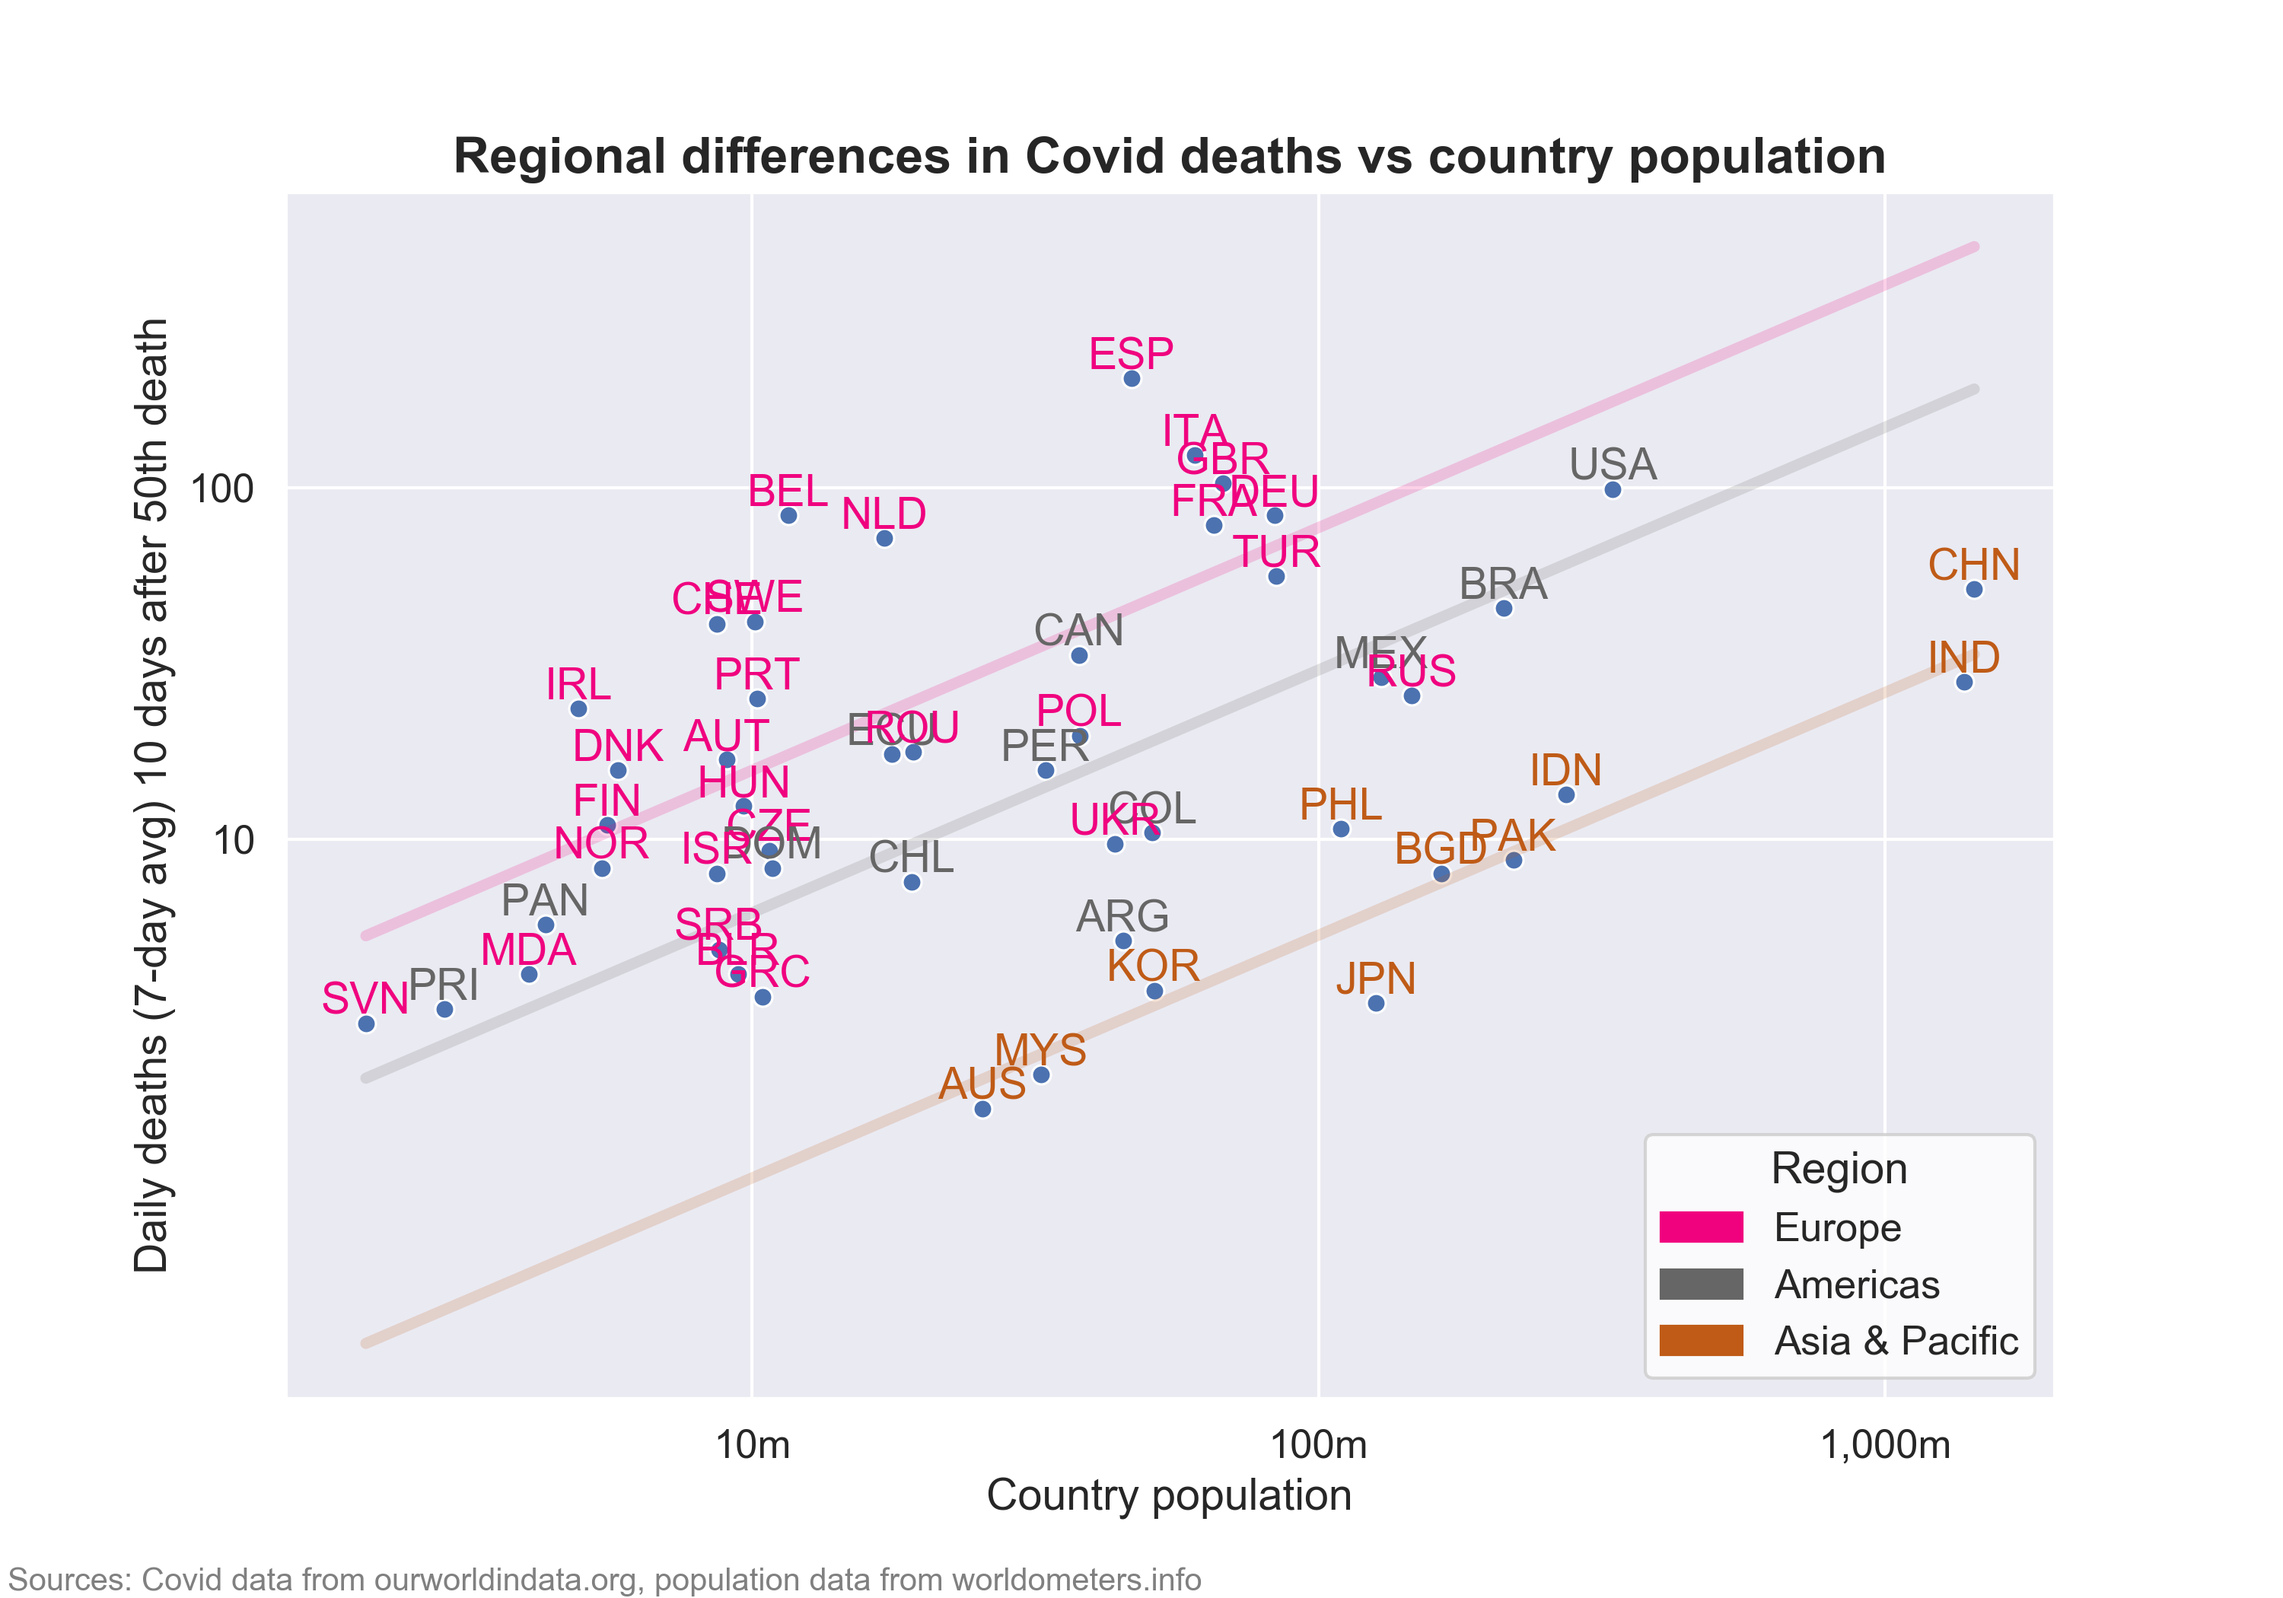
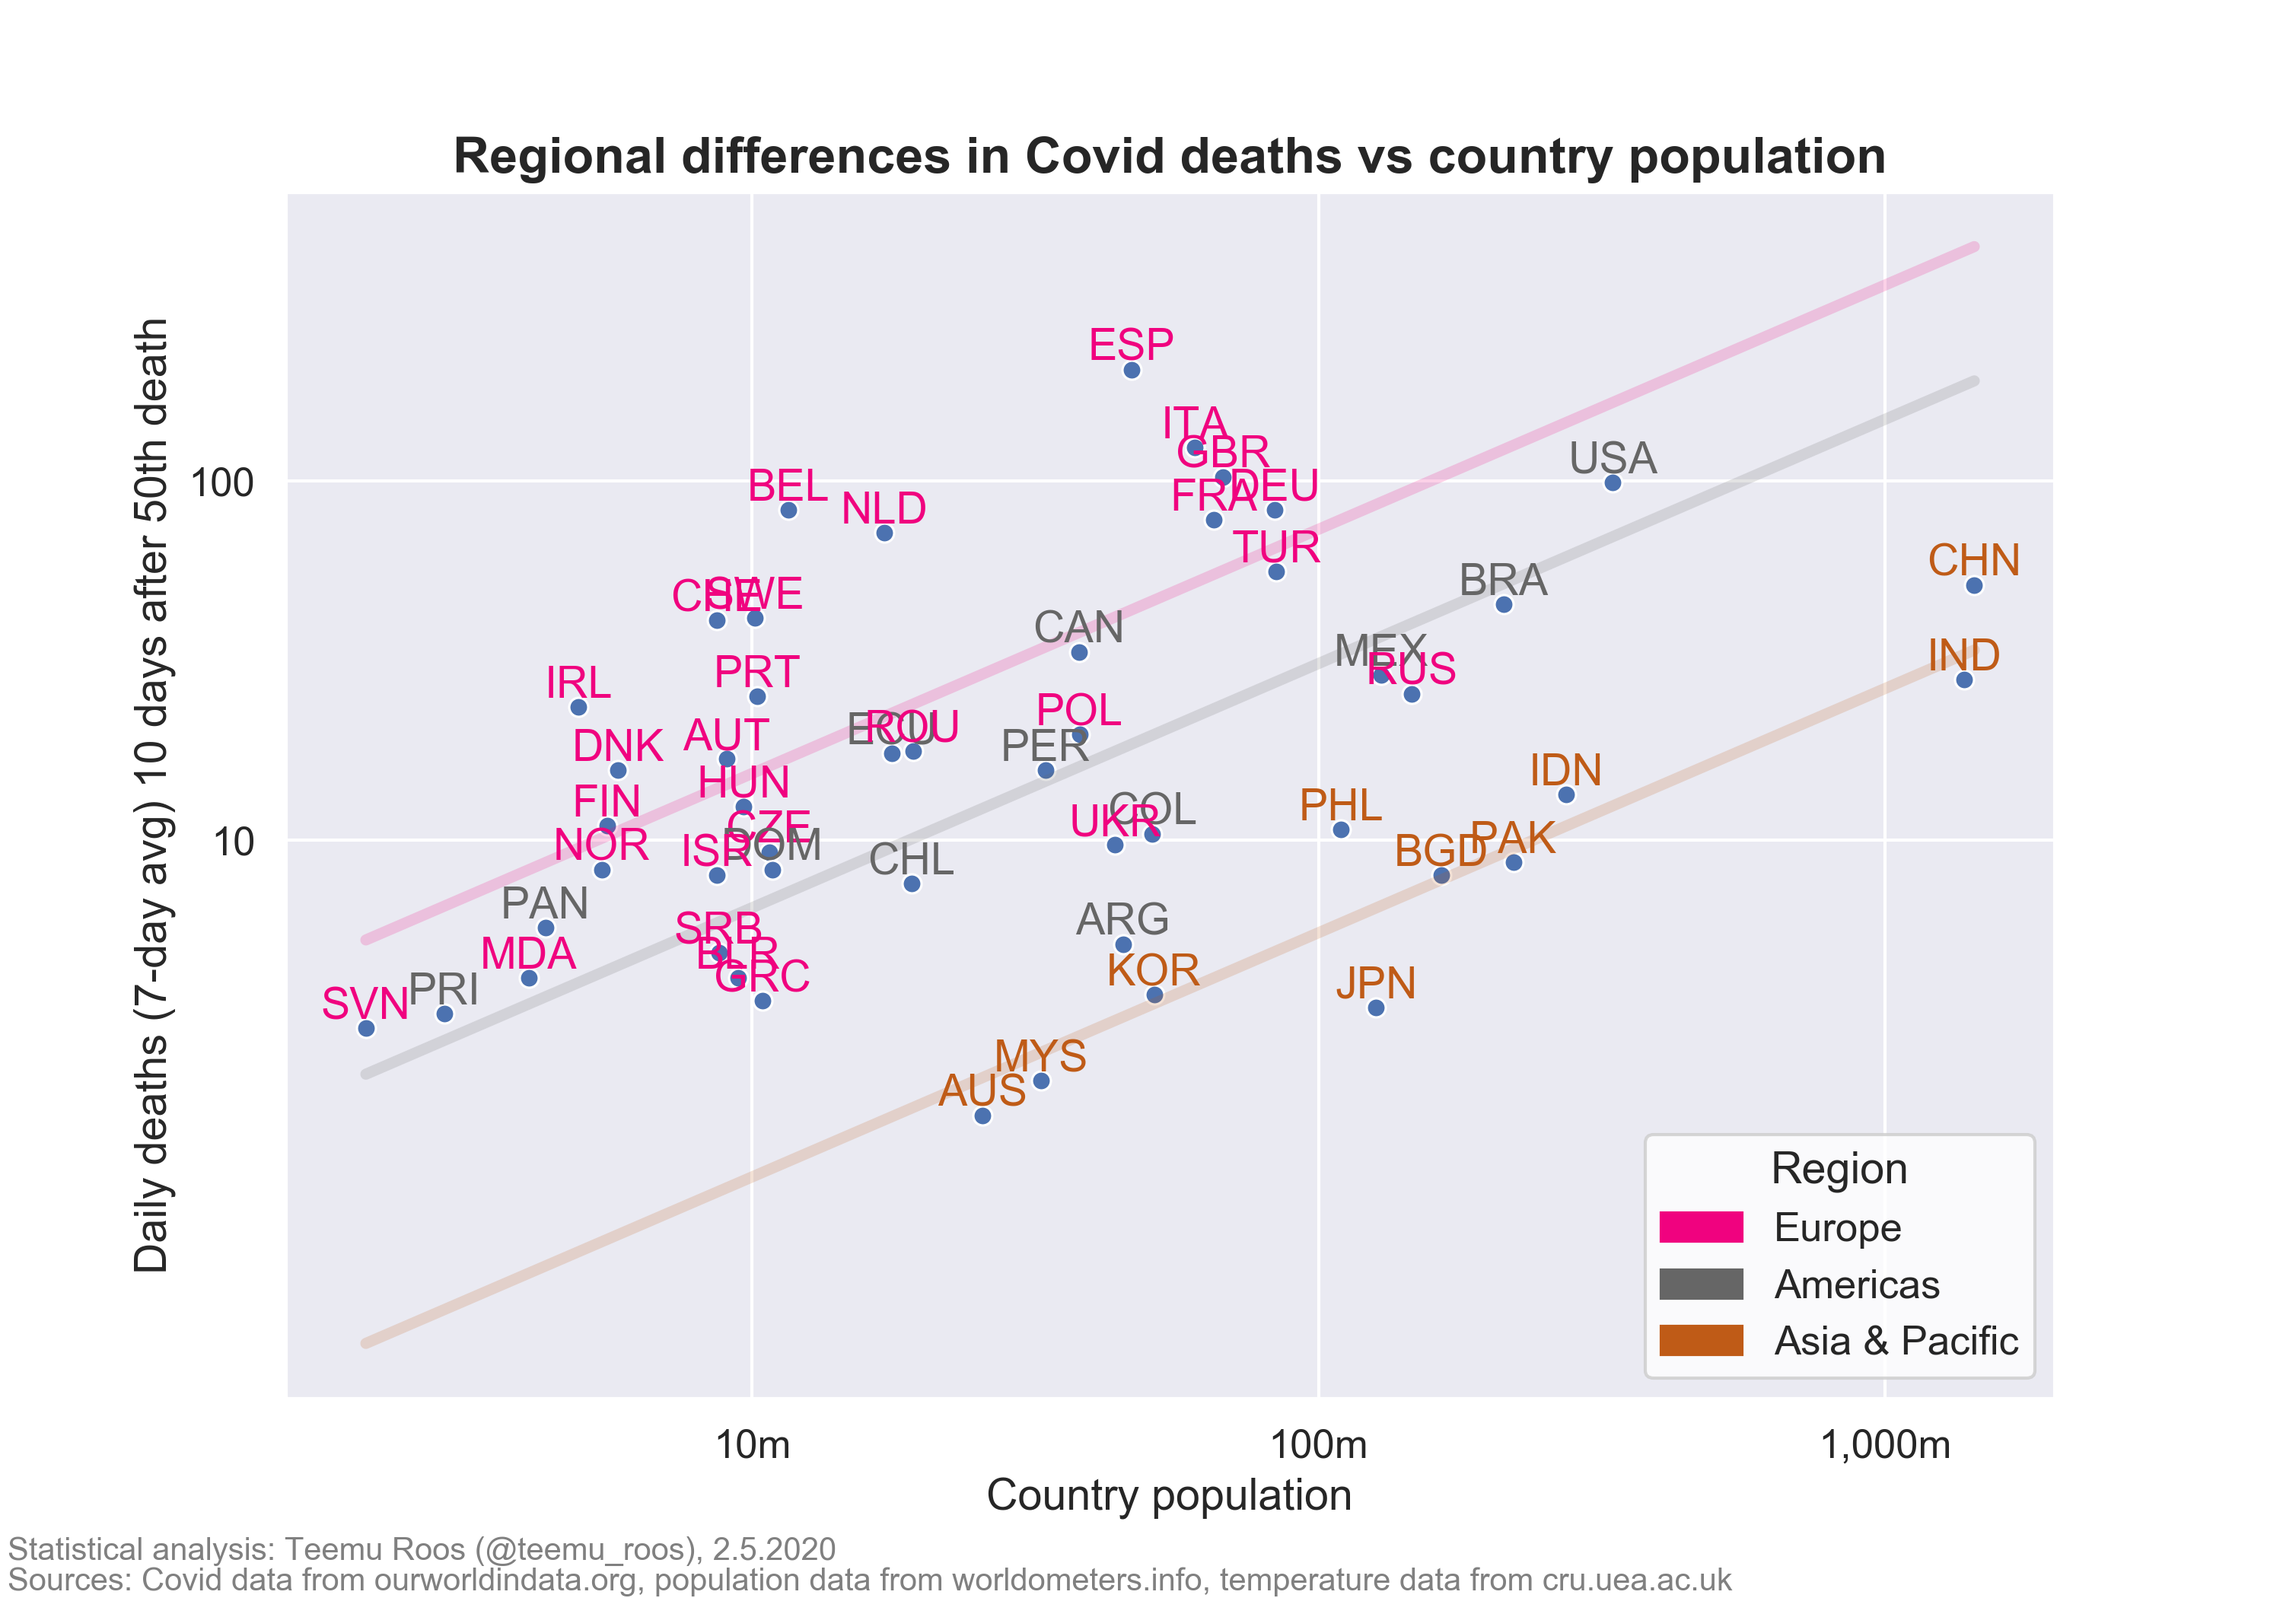
remove R-squared from title, add temp data source

diff --git a/country_size_deaths.py b/country_size_deaths.py
@@ -68,7 +68,7 @@ ddayX = {}
 use_density_instead_of_pop = False    # outcome is uninteresting but had to check
 
 use_density_as_covariate = False
-use_temp_as_covariate = True
+use_temp_as_covariate = False
 
 # combine population, population density, Covid and region data from three different dataframes
 
@@ -121,7 +121,7 @@ tmps = [tmp[country] for country in ddayX.keys()]
 
 if use_density_instead_of_pop:
     pops = x
-    x = [10.0**t for t in tmps]
+    x = dens
 
 # y-value is number of deaths
 
@@ -129,7 +129,6 @@ y = [np.log10(ddayX[country]) for country in ddayX.keys()]
 
 # you can also try deaths per capita
 #y = [np.log10(ddayX[country]/(max(pop[pop["location"] == country]["population"])/1000000)) for country in ddayX.keys()]
-
 
 # labels
 
@@ -261,10 +260,10 @@ for region in regions:
     yline = lm.predict(pfeatures)
     plt.plot(10**(xline), yline, linewidth=3.5, color=color[region], alpha=0.182)
 
-ax.annotate("Sources: Covid data from ourworldindata.org, population data from worldometers.info",
+ax.annotate("Sources: Covid data from ourworldindata.org, population data from worldometers.info, temperature data from cru.uea.ac.uk",
             xy=(10, 10), xycoords='figure pixels', color='gray', fontsize=10)
-#ax.annotate("Statistical analysis: Teemu Roos (@teemu_roos), 29.4.2020",
-#          xy=(10, 50), xycoords='figure pixels', color='gray', fontsize=10)
+ax.annotate("Statistical analysis: Teemu Roos (@teemu_roos), 2.5.2020",
+         xy=(10, 50), xycoords='figure pixels', color='gray', fontsize=10)
 
 
 #plt.ylim(np.log10(.3), np.log10(700))   # comment out if using per capita deaths
